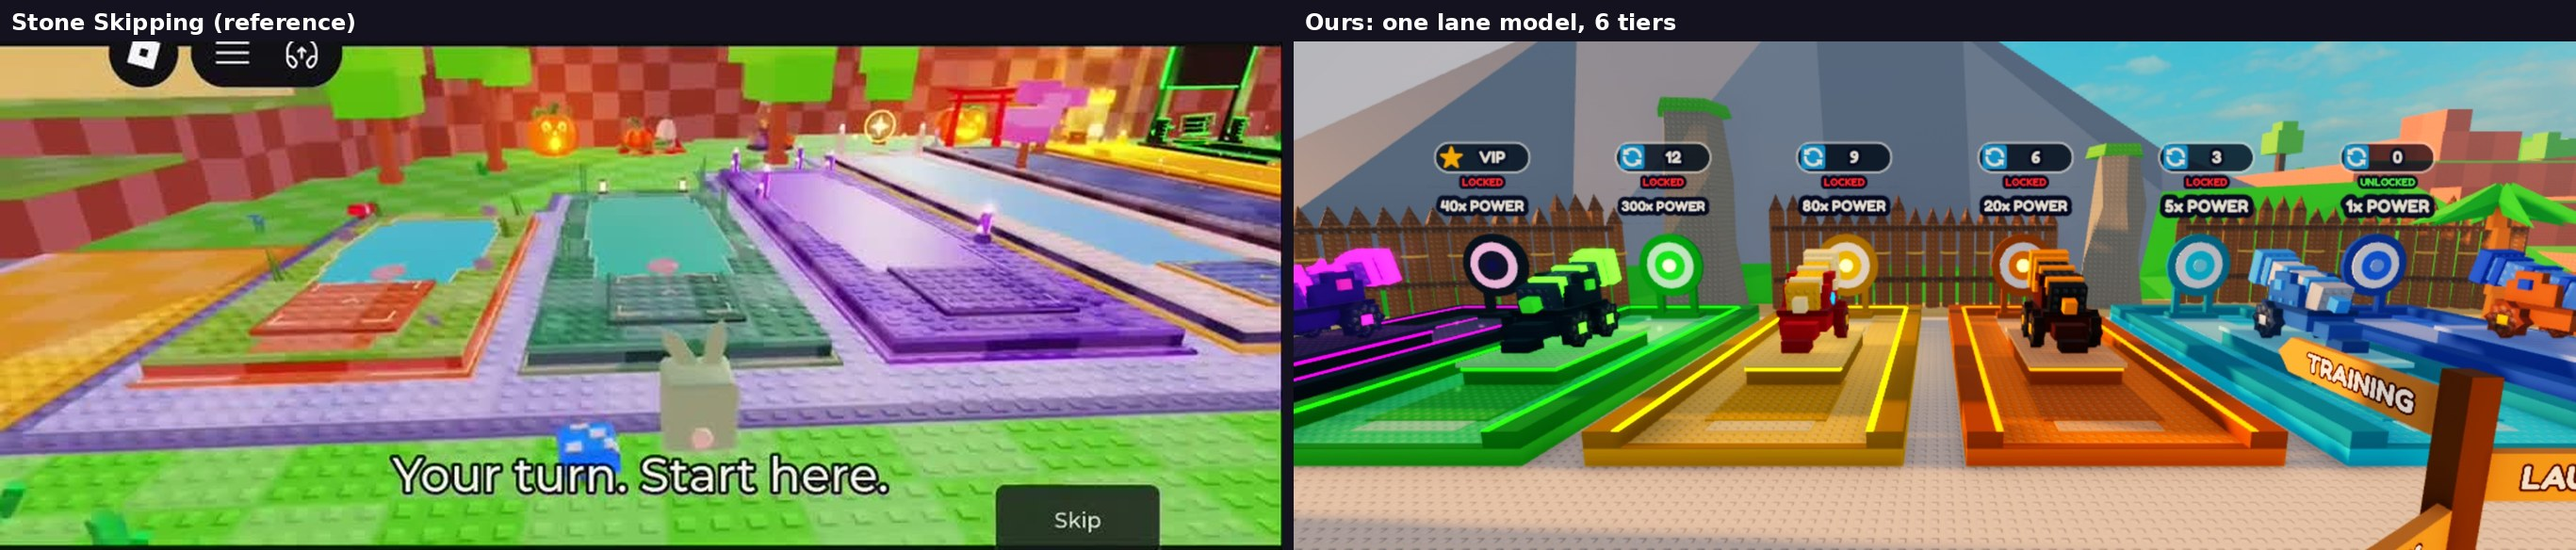
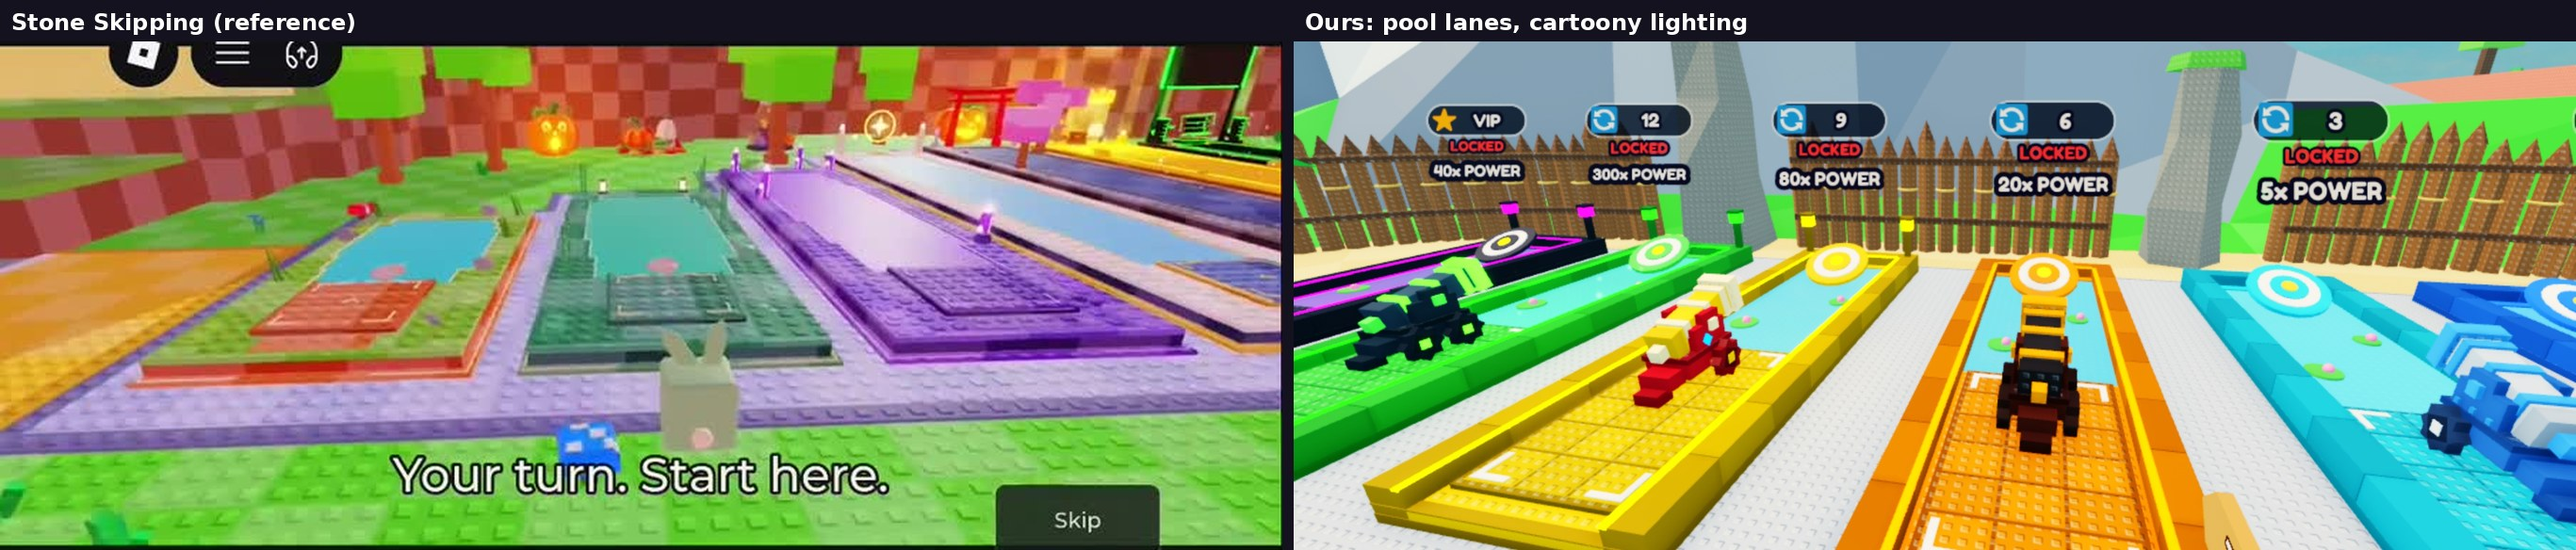
Lanes round two: side-by-side, lesson updated with what really made the reference look better, README rows
Claude-Session: https://claude.ai/code/session_01JsRi11229QXfGqBxzgYdBi

diff --git a/Build Playbooks/Lesson - Tiered Training Lanes.md b/Build Playbooks/Lesson - Tiered Training Lanes.md
@@ -26,6 +26,32 @@ better because they follow a few rules every time. Use these rules for any row o
    player can compare every tier at once. Never stack them diagonally, where back lanes hide behind
    front ones.
 
+## Round two: why ours still looked worse, and the fix (Oct 31)
+Following the six rules was not enough. Alex said the lanes "still don't look as good", so we compared
+them frame by frame with Stone Skipping. These were the real gaps:
+- **Tall things in the lane.** A big dark cannon on a plinth and a standing target on legs filled every
+  lane. The reference lane has nothing tall in it. The fix was to set the cannon low on the start pad, with
+  no plinth and less than half the lane's inner width, and make the target a bullseye raft floating flat
+  at the far end, leaning back 25 degrees towards the cannon.
+- **No water.** Each reference lane is mostly a pool of light, bright water, from rim to rim. Ours was one
+  flat plastic slab with a thin pale strip. The fix was a recessed pool that fills the lane from the
+  cannon's nose to the far rim, with 2 lily pads.
+  - Water must stay watery: light cyan to blue, leaning to the lane's hue only where it still looks like
+    water (mint for green, violet for the black VIP lane).
+  - Yellow or orange water looked like juice, and see-through Glass over a dark bed looked grey.
+- **Stubby lanes, thin gaps.** Make lanes about 3 times longer than wide, with a walkway between them
+  about half a lane wide.
+- **The walkway colour has to contrast with every lane.** Our gold and orange lanes vanished into sand.
+  The reference uses lavender; we used cool light stone (Alex wants the pirate look, not lavender).
+- **The start pad is its own thing.** It is raised, tiled, a shade darker, with white L marks on the
+  corners.
+- **The rim is built from bricks.** Use segments about 4 studs long in two shades, with studs on top.
+- **Lighting.** A late-afternoon sun threw long dark shadows over everything. Cartoony lighting is a high
+  sun (ClockTime about 14), no cast shadows (GlobalShadows off), a bright warm OutdoorAmbient and mild
+  saturation. Phones at low quality show no shadows anyway.
+- **The label's line sizes.** The pill is about as wide as the label and LOCKED is about 55% of the power
+  line's height.
+
 ## How +1 Cannon Evolution does it
 - `cannon-evolution/src/tools/BuildWorld1.lua`:
   - `LanePlatform` is the stud platform;
@@ -34,6 +60,7 @@ better because they follow a few rules every time. Use these rules for any row o
   - `makeBooth()` builds the one lane model;
   - every lane has the same length, so the target is the same distance away.
 - `cannon-evolution/src/tools/BuildRebirthSigns.lua` builds the label.
+- `cannon-evolution/src/tools/BuildLighting.lua` sets the cartoony lighting.
 - `cannon-evolution/src/client/GameClient/Effects.lua` sets LOCKED/UNLOCKED for each player.
 - The cannon on each lane still differs per tier on purpose, because the cannons are the upgrades.
 - Picture: `cannon-evolution/previews/lanes-vs-stone-skipping.jpg`.

diff --git a/cannon-evolution/README.md b/cannon-evolution/README.md
@@ -18,7 +18,8 @@ Everything lives in `src/`. I install it straight into your open Studio place wh
 | `src/tools/BuildLobbyExtras.lua` | Command Bar, once. Builds the 4 egg stands by the Grand Cannon and the see-through area borders along the track (already run) |
 | `src/tools/BuildRebirthSigns.lua` | Command Bar, after BuildWorld1. One label over the far end of each training lane, the same size and height on every lane, like Stone Skipping's: a dark pill with the rebirths needed (VIP for the pass lane), then UNLOCKED in green or LOCKED in red (set for each player by Effects.lua), then the power, big ("5x POWER") (Oct 31, already run) |
 | `src/tools/BuildCannonBallStand.lua` | Command Bar, once. The 2-tier cannonball pedestal on the right wall of the lobby, built part for part from `models/GunStand_2Tiers.glb` (already run) |
-| `src/tools/BuildWorld1.lua` | Paste into the Command Bar once. It builds the training lanes, the Launch Zone by the Grand Cannon, the launch point and the spawn. The lanes follow Stone Skipping's rules (Oct 31): one lane model cloned for every tier on one stud platform, side by side, facing the plaza. Each lane is coloured in its tier colour (floor, darker rim, lighter centre track). Tiers 1–2 are plain, then glow, then shine and sparkles, and the VIP lane is black with neon. Then run BuildRebirthSigns for the labels and BuildCartoonyMap for the studs. Rules: `Build Playbooks/Lesson - Tiered Training Lanes.md` |
+| `src/tools/BuildWorld1.lua` | Paste into the Command Bar once. It builds the training lanes, the Launch Zone by the Grand Cannon, the launch point and the spawn. The lanes follow Stone Skipping's rules (Oct 31): one lane model cloned for every tier, side by side on a stone stud platform, facing the plaza. Each lane is a long, low pool of light water (with lily pads) inside a brick rim in the tier colour. It has a raised tiled start pad with white corner marks, the cannon sitting low on the pad and a bullseye raft floating at the far end. Tiers 1–2 are plain, then glow, then shine and sparkles, with lanterns on the top tiers, and the VIP lane is black with neon. Then run BuildRebirthSigns for the labels and BuildCartoonyMap for the studs. Rules: `Build Playbooks/Lesson - Tiered Training Lanes.md` |
+| `src/tools/BuildLighting.lua` | Command Bar, once. Bright cartoony lighting for the island (Alex, Oct 31: remove the shadows): a high sun, no cast shadows, a bright warm ambient, a light haze and a little bloom on neon (already run) |
 
 ## Models the game looks for
 
